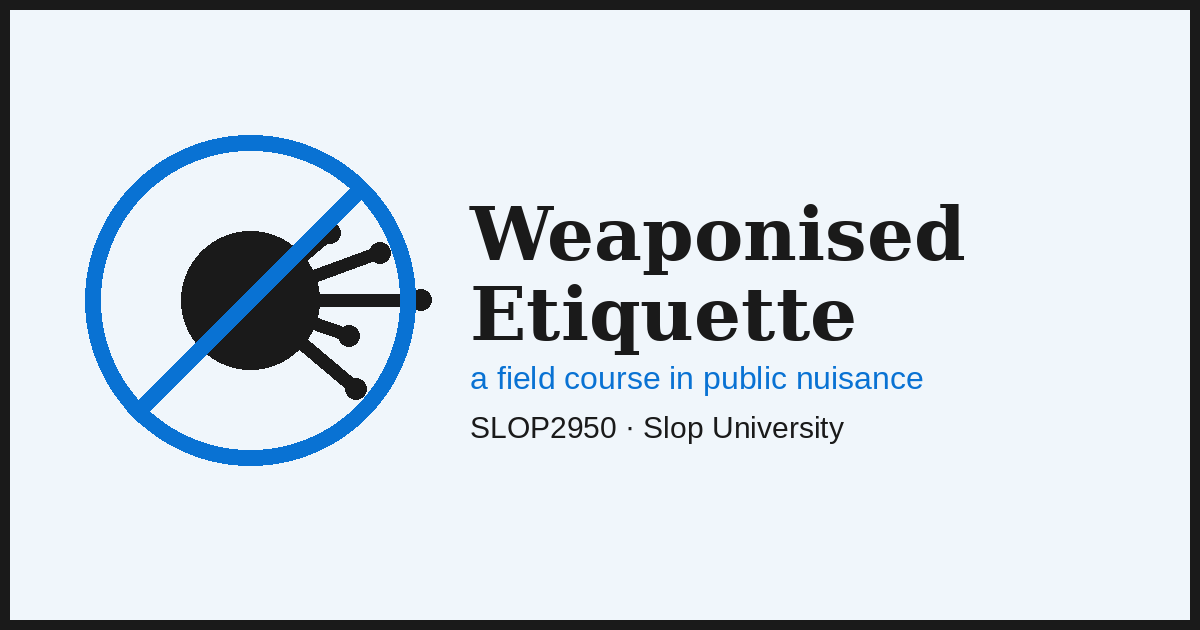
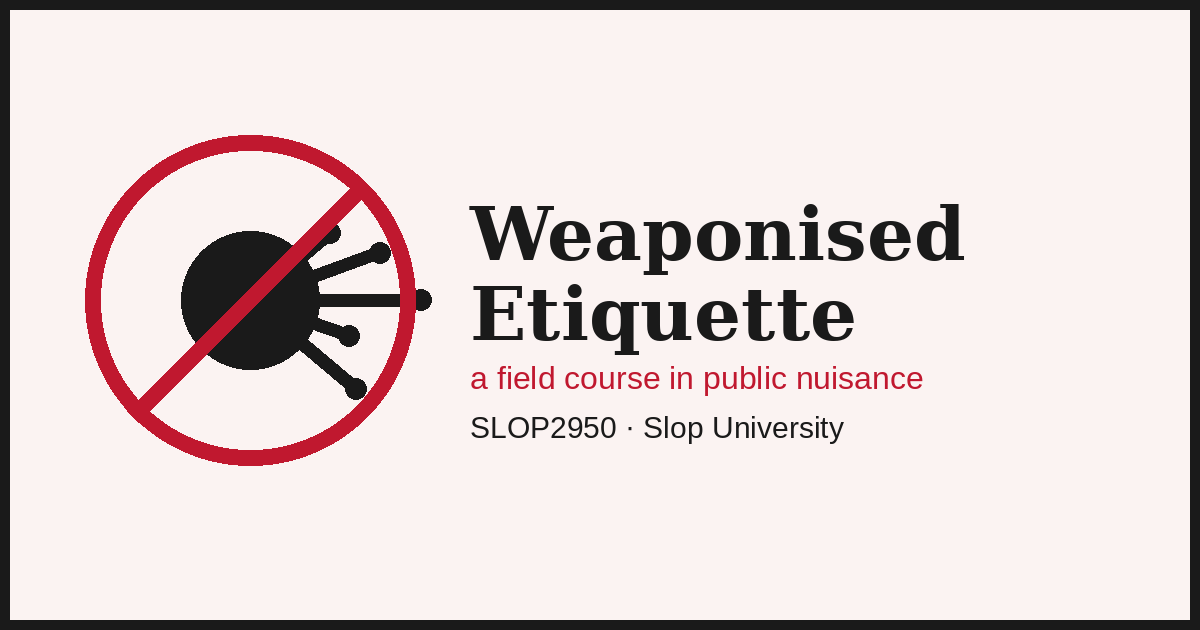
Change accent palette from blue to red (#c0182f / #7a0e1f / #f0555f)
User picked red over brown/navy after reviewing swatch mockups. Only the
three brand.css tokens and gen_brand_art.py's matching ACCENT/CREAM
constants change; the theme derives every other color (nav, links,
buttons, hover/focus states) from these relationally. card.png and
hero-home.png regenerated to match. Button hover/press/focus polish is a
separate follow-up, not yet done.

Changed region(s): [[0.0617, 0.2111, 0.37, 0.754], [0.4008, 0.573, 0.7708, 0.6333]]

diff --git a/src/styles/brand.css b/src/styles/brand.css
@@ -1,14 +1,17 @@
-/* Bright/light brand palette for astro-theme-university, styled after AWS's
- * training pages: a clear saturated blue instead of the house gold, a deep
- * navy for secondary use (utility bars, hover states), and a supporting cyan
- * for tertiary/info accents. The theme derives every semantic token (bg,
- * text, links, borders …) from these three via relative colour syntax, so
- * overriding them here is enough to re-theme the whole site. Imported after
- * the theme styles via `universityTheme({ brandCss: "./src/styles/brand.css" })`. */
+/* Bright/light brand palette for astro-theme-university: a clear red as the
+ * primary accent (nav underline, links, filled buttons), a deep brick red for
+ * secondary use (utility bars, pressed states), and a lighter coral reserved
+ * for decorative/info accents only (its contrast on white is intentionally
+ * too low for text — matches the tertiary token's role under the previous
+ * blue palette). The theme derives every semantic token (bg, text, links,
+ * borders, hover/active/focus states …) from these three via relative colour
+ * syntax, so overriding them here is enough to re-theme the whole site,
+ * button interaction states included. Imported after the theme styles via
+ * `universityTheme({ brandCss: "/src/styles/brand.css" })`. */
 :root {
-  --at-primary: #0972d3;
-  --at-secondary: #033160;
-  --at-tertiary: #16bfd6;
+  --at-primary: #c0182f;
+  --at-secondary: #7a0e1f;
+  --at-tertiary: #f0555f;
 
   /* The shield crest sits at the far left of the lockup, its centre 5.9% of the
      way across. Offset by that so the content rule bisects the crest. */

diff --git a/scripts/gen_brand_art.py b/scripts/gen_brand_art.py
@@ -4,11 +4,11 @@ build; run manually to (re)produce src/assets/images/card.png and hero-home.png.
 import math
 from PIL import Image, ImageDraw, ImageFont
 
-# Matches src/styles/brand.css's bright AWS-style palette: a cool near-white
-# background (in the same direction as the theme's derived --at-bg for a blue
-# primary) with the brand blue as the accent, ink for the sneeze-burst mark.
-CREAM = (240, 246, 251)
-ACCENT = (9, 114, 211)
+# Matches src/styles/brand.css's bright red palette: a warm near-white
+# background (in the same direction as the theme's derived --at-bg for a red
+# primary) with the brand red as the accent, ink for the sneeze-burst mark.
+CREAM = (251, 243, 242)
+ACCENT = (192, 24, 47)
 INK = (26, 26, 26)
 
 SERIF_BOLD = "/usr/share/fonts/truetype/dejavu/DejaVuSerif-Bold.ttf"
